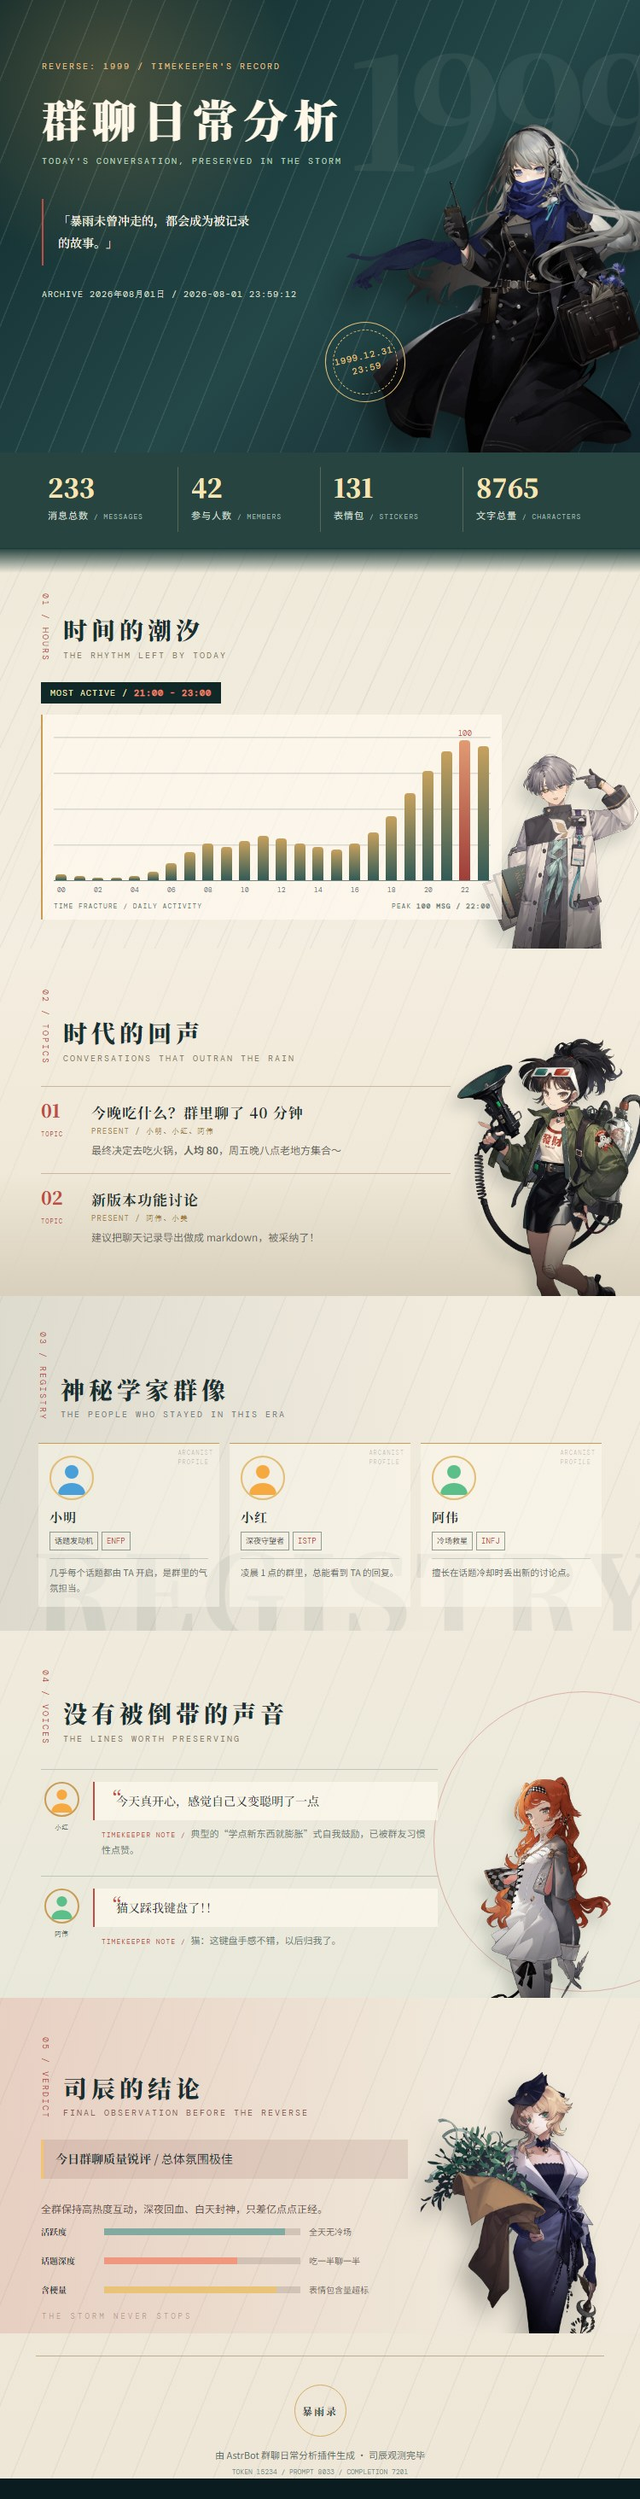
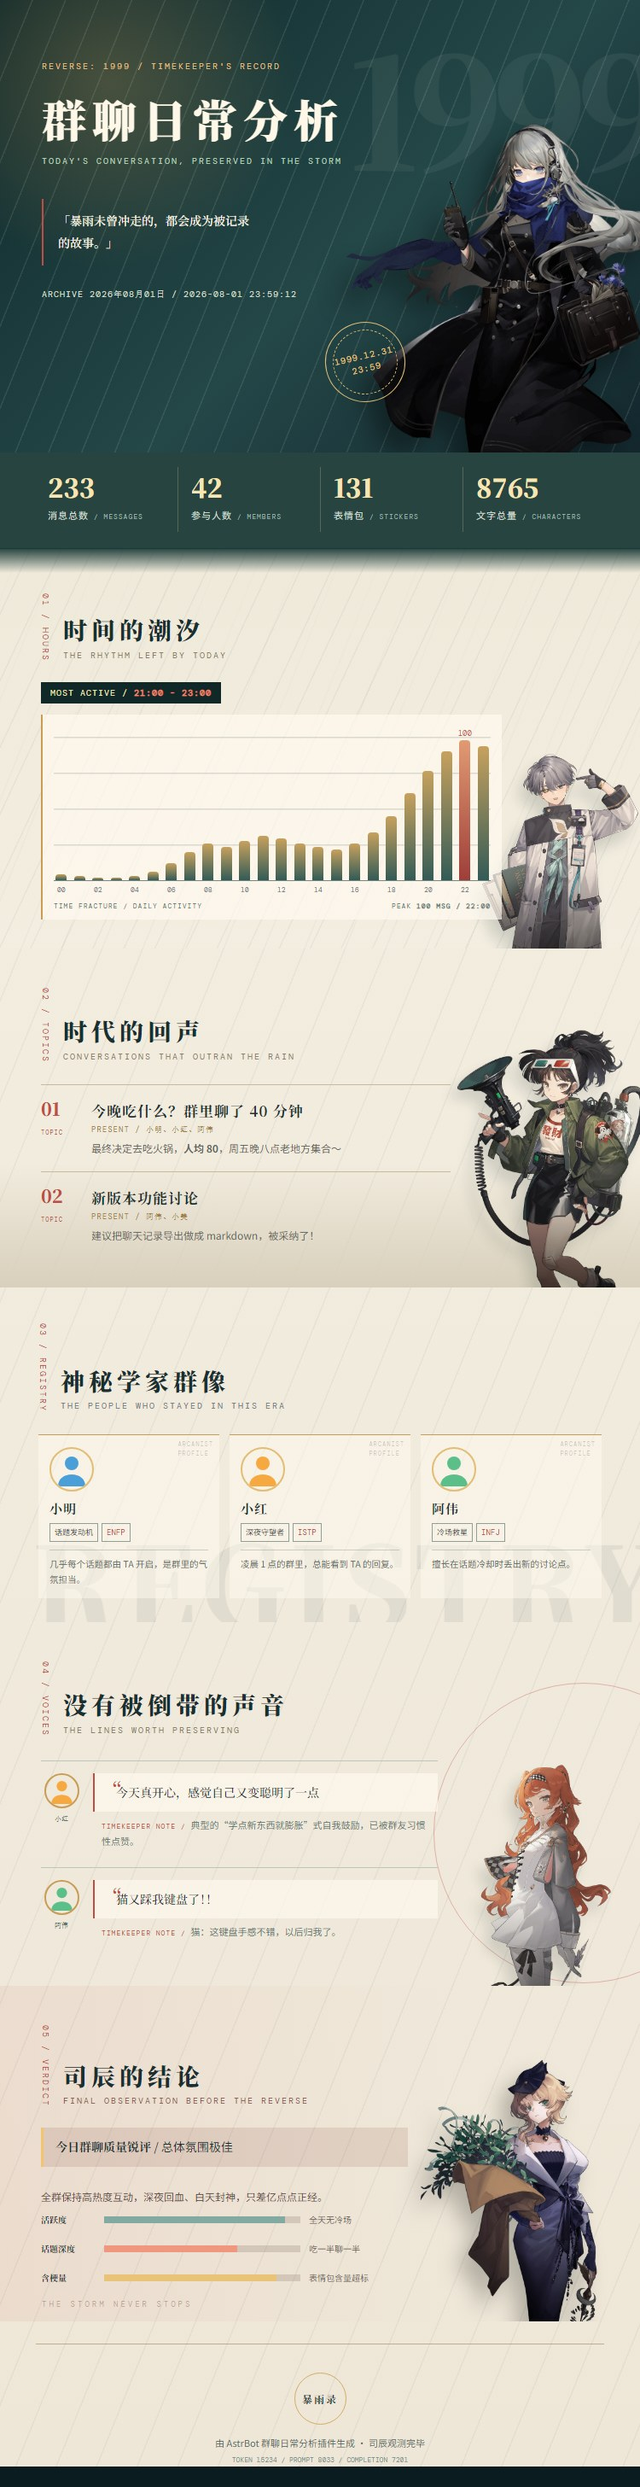
Refine continuous character layout

diff --git a/gda_reverse_1999/image_template.html b/gda_reverse_1999/image_template.html
@@ -1,4 +1,4 @@
 <!DOCTYPE html>
 <html lang="{{ 'zh-CN' if t2i_font_source == 'Mainland' else 'zh-Hant' }}"><head><meta charset="UTF-8"><meta name="viewport" content="width=device-width,initial-scale=1"><title>重返未来：1999 · 群聊观测</title><link rel="preconnect" href="{{ t2i_google_fonts_mirror }}"><link href="{{ t2i_google_fonts_mirror }}/css2?family=Noto+Serif+SC:wght@500;700;900&family=Noto+Serif+TC:wght@500;700;900&family=Noto+Sans+SC:wght@400;500;700&family=Noto+Sans+TC:wght@400;500;700&family=DM+Mono&display=swap" rel="stylesheet"><style>
-:root{--night:#102928;--deep:#0b1c20;--mist:#dce2d7;--paper:#f4efe2;--ivory:#fffaf0;--gold:#c99c55;--red:#bd4d45;--blue:#8ca9a3;--ink:#183031;--font-title:{% if t2i_font_source == 'Mainland' %}'Noto Serif SC','Noto Serif TC'{% else %}'Noto Serif TC','Noto Serif SC'{% endif %},serif;--font-body:{% if t2i_font_source == 'Mainland' %}'Noto Sans SC','Noto Sans TC'{% else %}'Noto Sans TC','Noto Sans SC'{% endif %},sans-serif;--mono:'DM Mono',monospace}*{box-sizing:border-box;margin:0;padding:0}html{background:var(--deep)}body{font-family:var(--font-body);color:var(--ink);font-size:15px;line-height:1.8;-webkit-print-color-adjust:exact;print-color-adjust:exact}.page{width:750px;margin:auto;overflow:hidden;background:#f4efe2;background-image:repeating-linear-gradient(112deg,transparent 0 42px,rgba(35,62,58,.055) 43px 44px),linear-gradient(180deg,#f5f0e4,#eee7d8)}.avoid-break{break-inside:avoid;page-break-inside:avoid}.hero{height:530px;position:relative;overflow:hidden;color:#fff8e8;background:linear-gradient(135deg,#102a2b 0%,#244748 55%,#13272d 100%)}.hero:before{content:"";position:absolute;inset:0;background:repeating-linear-gradient(112deg,transparent 0 34px,rgba(218,236,223,.11) 35px 36px),radial-gradient(circle at 17% 18%,rgba(201,156,85,.28),transparent 29%)}.hero:after{content:"1999";position:absolute;right:-24px;top:32px;font:900 180px/1 var(--font-title);letter-spacing:-12px;color:rgba(255,249,230,.06)}.hero-copy{position:absolute;z-index:3;left:49px;top:70px;width:398px}.eyebrow,.en,.chapter-index,.footer-code{font:10px/1.5 var(--mono);letter-spacing:2px}.eyebrow{color:#e2bf82}.hero h1{margin-top:21px;font:900 52px/1.25 var(--font-title);letter-spacing:7px}.hero .en{margin-top:10px;color:#bbcfbf}.hero-quote{margin-top:37px;width:255px;padding:13px 0 13px 17px;border-left:2px solid var(--red);font-family:var(--font-title);font-size:14px;line-height:1.85}.hero-date{margin-top:27px;color:#d6dccc;font:10px var(--mono);letter-spacing:1px}.hero-char{position:absolute;z-index:2;right:-34px;bottom:-26px;width:380px;filter:drop-shadow(-16px 17px 14px rgba(0,0,0,.37))}.hero-seal{position:absolute;z-index:4;right:275px;bottom:59px;width:94px;height:94px;border:1px solid #dfbd78;border-radius:50%;display:flex;align-items:center;justify-content:center;text-align:center;color:#efc980;font:10px/1.55 var(--mono);letter-spacing:1px;transform:rotate(-13deg)}.hero-seal:after{content:"";position:absolute;inset:8px;border:1px dashed #dfbd78;border-radius:50%}.metrics{display:grid;grid-template-columns:repeat(4,1fr);background:rgba(26,57,54,.94);color:#fff8e8;padding:17px 41px 20px;gap:0;position:relative}.metrics:after{content:"";position:absolute;left:0;right:0;bottom:-28px;height:29px;background:linear-gradient(180deg,rgba(26,57,54,.94),transparent);pointer-events:none;z-index:1}.metric{padding:5px 15px 8px;border-left:1px solid rgba(224,200,145,.27)}.metric:first-child{border:0}.metric b{display:block;font:900 30px/1.2 var(--font-title);color:#f8e5b5}.metric small{font-size:11px;color:#d3dfd2;letter-spacing:1px}.metric span{font:8px var(--mono);color:#9eb4aa;letter-spacing:1px}.scene{position:relative;overflow:hidden}.scene-title{display:flex;align-items:flex-end;gap:16px;position:relative;z-index:3}.chapter-index{color:var(--red);writing-mode:vertical-rl;line-height:1}.scene-title h2{font:900 28px/1.2 var(--font-title);letter-spacing:5px}.scene-title .en{margin-top:5px;color:#8b7761}.tide{padding:52px 48px 34px;background:linear-gradient(180deg,rgba(238,232,216,.78),rgba(244,239,226,.34))}.tide .chart-wrap{margin-bottom:0}.tide:before{content:"";position:absolute;inset:0;background:repeating-linear-gradient(115deg,transparent 0 31px,rgba(40,74,70,.06) 32px 33px)}.tide-char{position:absolute;right:-25px;bottom:-46px;width:250px;opacity:.88;filter:drop-shadow(-8px 13px 9px rgba(25,43,40,.2))}.tide .scene-title{width:420px}.peak-box{position:relative;z-index:3;display:inline-block;margin:24px 0 13px;padding:6px 11px;background:var(--night);color:#f2e0b7;font:10px var(--mono);letter-spacing:1px}.peak-box b{color:#f18770}.chart-wrap{position:relative;z-index:3;width:540px;padding:14px 13px 11px;background:rgba(255,250,239,.7);border-left:2px solid var(--gold)}.chart-col{padding-top:20px;background:repeating-linear-gradient(0deg,transparent 0 40px,rgba(31,55,51,.15) 41px 42px)}.chart-bars{height:160px;display:flex;gap:4px;align-items:flex-end}.chart-item{height:100%;flex:1;display:flex;align-items:flex-end;justify-content:center;position:relative}.chart-bar{width:75%;min-height:3px;background:linear-gradient(to top,#335b57,#c7a15e);border-radius:4px 4px 0 0}.chart-bar.peak{background:linear-gradient(to top,#9e3e39,#e19a73)}.chart-val{position:absolute;bottom:calc(100% + 6px);font:9px var(--mono);color:var(--red)}.chart-hr{border:0;border-top:1px solid #778780}.chart-labels{display:flex;gap:4px;padding-top:5px}.chart-labels span{flex:1;text-align:center;font:8px var(--mono);color:#708079}.chart-caption{display:flex;justify-content:space-between;margin-top:9px;font:8px var(--mono);letter-spacing:1px;color:#697870}.topic-scene{padding:48px 48px 42px;background:linear-gradient(180deg,rgba(247,240,225,.30),rgba(232,221,198,.42))}.topic-scene .topic-list{margin-bottom:0}.topic-scene:before{content:"";position:absolute;left:0;right:0;bottom:0;height:145px;background:linear-gradient(0deg,#d8d0bc,transparent)}.topic-scene .scene-title{margin-bottom:25px}.topic-list{position:relative;z-index:2;width:480px}.topic-item{display:flex;gap:17px;padding:17px 0;border-top:1px solid #c9b99c}.topic-no{width:42px;flex:none;color:var(--red)}.topic-no b{display:block;font:900 21px/1 var(--font-title)}.topic-no span{font:7px var(--mono);letter-spacing:1px}.topic-title{font:700 17px/1.5 var(--font-title);letter-spacing:1px}.topic-meta{margin-top:3px;color:#a47d42;font:9px var(--mono);letter-spacing:1px}.topic-detail{margin-top:5px;color:#5f6861;font-size:12px}.topic-char{position:absolute;right:-58px;bottom:-33px;width:300px;z-index:1;filter:drop-shadow(-9px 11px 8px rgba(25,43,40,.17))}.registry{padding:42px 45px 28px;background:linear-gradient(90deg,rgba(20,55,52,.09),rgba(244,239,226,.10) 72%);color:var(--ink)}.registry:before{content:"REGISTRY";position:absolute;left:37px;bottom:-44px;color:rgba(21,57,53,.025);font:900 130px var(--font-title);letter-spacing:6px}.registry .en{color:#bfae87}.title-grid{display:grid;grid-template-columns:repeat(3,1fr);gap:12px;position:relative;z-index:2;margin-top:26px}.title-card{position:relative;padding:14px 13px 13px;background:rgba(255,250,240,.48);border-top:1px solid #d4b272;overflow:hidden}.title-card:after{content:"ARCANIST\A PROFILE";white-space:pre;position:absolute;right:7px;top:6px;color:rgba(255,248,230,.35);font:7px/1.5 var(--mono);letter-spacing:1px}.t-avatar{width:52px;height:52px;border-radius:50%;overflow:hidden;border:2px solid #e2bd75}.t-avatar img{width:100%;height:100%;object-fit:cover}.t-name{margin-top:9px;font:700 15px var(--font-title);letter-spacing:1px}.t-badges{display:flex;gap:4px;flex-wrap:wrap;margin-top:7px}.t-title-tag,.t-mbti{padding:2px 5px;border:1px solid rgba(239,218,175,.54);font-size:9px}.t-mbti{font-family:var(--mono);color:#f3bdad}.t-reason{margin-top:9px;padding-top:7px;border-top:1px solid rgba(239,218,175,.23);font-size:10.5px;line-height:1.7;color:#d7ded0}.t-profile{position:absolute;right:-6px;bottom:-4px;width:58%;opacity:.08}.quote-stage{padding:46px 48px 38px;background:linear-gradient(180deg,rgba(238,235,222,.26),rgba(226,232,219,.50))}.quote-stage .quote-wrapper:last-child{margin-bottom:0}.quote-stage:after{content:"";position:absolute;right:-110px;top:71px;width:350px;height:350px;border:1px solid rgba(190,73,66,.35);border-radius:50%}.quote-stage .scene-title{margin-bottom:28px}.quote-wrapper{position:relative;z-index:2;width:465px;padding:14px 0;border-top:1px solid #bec6b9}.q-flex{display:flex;gap:13px}.q-side{flex:none;width:48px;text-align:center}.q-avatar{width:41px;height:41px;object-fit:cover;border-radius:50%;border:2px solid var(--gold)}.q-sender{font:8px var(--mono);color:#61716a;word-break:break-all}.q-main{flex:1}.q-bubble{padding:10px 13px 10px 25px;background:rgba(255,251,240,.65);border-left:2px solid var(--red);font:14px/1.75 var(--font-title);position:relative}.q-bubble:before{content:'“';position:absolute;left:9px;top:3px;font:23px var(--font-title);color:var(--red)}.q-note{padding:6px 10px;color:#68766f;font-size:11px}.note-label{font:8px var(--mono);color:var(--red);letter-spacing:1px}.quote-char{position:absolute;right:-20px;bottom:-47px;width:285px;z-index:1;filter:drop-shadow(-9px 13px 8px rgba(30,50,47,.19))}.assessment{padding:46px 48px 34px;background:linear-gradient(90deg,rgba(189,77,69,.16),rgba(244,239,226,.16) 75%);color:var(--ink)}.assessment:before{content:"THE STORM NEVER STOPS";position:absolute;left:49px;bottom:14px;font:9px var(--mono);letter-spacing:3px;color:rgba(255,239,207,.43)}.assessment .en{color:#ebc98b}.block-char{position:absolute;right:-17px;bottom:-27px;width:294px;filter:drop-shadow(-13px 15px 12px rgba(0,0,0,.25))}.quality-summary{position:relative;z-index:2;width:430px;margin-top:24px;font-size:12px;color:#ffeeda}.quality-summary.head{padding:10px 14px;border-left:3px solid #f2c470;background:rgba(30,20,22,.2);font-size:14px}.quality-summary b{font-family:var(--font-title)}.dim-row{position:relative;z-index:2;display:flex;align-items:center;gap:10px;width:418px;padding:8px 0;font-size:10px}.dim-name{width:64px;font-family:var(--font-title);font-weight:700}.dim-bar-box{flex:1;height:8px;background:rgba(255,245,220,.25)}.dim-bar{height:100%;background:#e9c378}.dim-bar.d2{background:#83aaa0}.dim-bar.d3{background:#f0987f}.dim-comment{width:104px;color:#f4d9c5}.footer{position:relative;height:170px;padding-top:60px;text-align:center;background:transparent;color:var(--ink)}.footer:before{content:"";position:absolute;left:42px;right:42px;top:26px;border-top:1px solid rgba(225,190,123,.39)}.seal{display:inline-flex;width:61px;height:61px;align-items:center;justify-content:center;border:1px solid #d4ab67;border-radius:50%;font:700 12px/1.35 var(--font-title);letter-spacing:2px;position:relative;z-index:1}.seal span{display:none}.footer-line{margin-top:12px;font-size:11px;color:#c3d1c2}.token-line{margin-top:4px;font:8px var(--mono);color:#89a39a}.footer-art,.footer-art2,.footer-orn,.deco-char,.blk-sticker,.sec-head,.sec-no,.sec-title,.sec-sub,.kpi-row,.kpi-card,.kpi-num,.kpi-unit,.kpi-label,.kpi-en{display:none}
+:root{--night:#102928;--deep:#0b1c20;--mist:#dce2d7;--paper:#f4efe2;--ivory:#fffaf0;--gold:#c99c55;--red:#bd4d45;--blue:#8ca9a3;--ink:#183031;--font-title:{% if t2i_font_source == 'Mainland' %}'Noto Serif SC','Noto Serif TC'{% else %}'Noto Serif TC','Noto Serif SC'{% endif %},serif;--font-body:{% if t2i_font_source == 'Mainland' %}'Noto Sans SC','Noto Sans TC'{% else %}'Noto Sans TC','Noto Sans SC'{% endif %},sans-serif;--mono:'DM Mono',monospace}*{box-sizing:border-box;margin:0;padding:0}html{background:var(--deep)}body{font-family:var(--font-body);color:var(--ink);font-size:15px;line-height:1.8;-webkit-print-color-adjust:exact;print-color-adjust:exact}.page{width:750px;margin:auto;overflow:hidden;background:#f4efe2;background-image:repeating-linear-gradient(112deg,transparent 0 42px,rgba(35,62,58,.055) 43px 44px),linear-gradient(180deg,#f5f0e4,#eee7d8)}.avoid-break{break-inside:avoid;page-break-inside:avoid}.hero{height:530px;position:relative;overflow:hidden;color:#fff8e8;background:linear-gradient(135deg,#102a2b 0%,#244748 55%,#13272d 100%)}.hero:before{content:"";position:absolute;inset:0;background:repeating-linear-gradient(112deg,transparent 0 34px,rgba(218,236,223,.11) 35px 36px),radial-gradient(circle at 17% 18%,rgba(201,156,85,.28),transparent 29%)}.hero:after{content:"1999";position:absolute;right:-24px;top:32px;font:900 180px/1 var(--font-title);letter-spacing:-12px;color:rgba(255,249,230,.06)}.hero-copy{position:absolute;z-index:3;left:49px;top:70px;width:398px}.eyebrow,.en,.chapter-index,.footer-code{font:10px/1.5 var(--mono);letter-spacing:2px}.eyebrow{color:#e2bf82}.hero h1{margin-top:21px;font:900 52px/1.25 var(--font-title);letter-spacing:7px}.hero .en{margin-top:10px;color:#bbcfbf}.hero-quote{margin-top:37px;width:255px;padding:13px 0 13px 17px;border-left:2px solid var(--red);font-family:var(--font-title);font-size:14px;line-height:1.85}.hero-date{margin-top:27px;color:#d6dccc;font:10px var(--mono);letter-spacing:1px}.hero-char{position:absolute;z-index:2;right:-34px;bottom:-26px;width:380px;filter:drop-shadow(-16px 17px 14px rgba(0,0,0,.37))}.hero-seal{position:absolute;z-index:4;right:275px;bottom:59px;width:94px;height:94px;border:1px solid #dfbd78;border-radius:50%;display:flex;align-items:center;justify-content:center;text-align:center;color:#efc980;font:10px/1.55 var(--mono);letter-spacing:1px;transform:rotate(-13deg)}.hero-seal:after{content:"";position:absolute;inset:8px;border:1px dashed #dfbd78;border-radius:50%}.metrics{display:grid;grid-template-columns:repeat(4,1fr);background:rgba(26,57,54,.94);color:#fff8e8;padding:17px 41px 20px;gap:0;position:relative}.metrics:after{content:"";position:absolute;left:0;right:0;bottom:-28px;height:29px;background:linear-gradient(180deg,rgba(26,57,54,.94),transparent);pointer-events:none;z-index:1}.metric{padding:5px 15px 8px;border-left:1px solid rgba(224,200,145,.27)}.metric:first-child{border:0}.metric b{display:block;font:900 30px/1.2 var(--font-title);color:#f8e5b5}.metric small{font-size:11px;color:#d3dfd2;letter-spacing:1px}.metric span{font:8px var(--mono);color:#9eb4aa;letter-spacing:1px}.scene{position:relative;overflow:hidden}.scene-title{display:flex;align-items:flex-end;gap:16px;position:relative;z-index:3}.chapter-index{color:var(--red);writing-mode:vertical-rl;line-height:1}.scene-title h2{font:900 28px/1.2 var(--font-title);letter-spacing:5px}.scene-title .en{margin-top:5px;color:#8b7761}.tide{padding:52px 48px 34px;background:linear-gradient(180deg,rgba(238,232,216,.78),rgba(244,239,226,.34))}.tide .chart-wrap{margin-bottom:0}.tide:before{content:"";position:absolute;inset:0;background:repeating-linear-gradient(115deg,transparent 0 31px,rgba(40,74,70,.06) 32px 33px)}.tide-char{position:absolute;right:-25px;bottom:-46px;width:250px;opacity:.88;filter:drop-shadow(-8px 13px 9px rgba(25,43,40,.2))}.tide .scene-title{width:420px}.peak-box{position:relative;z-index:3;display:inline-block;margin:24px 0 13px;padding:6px 11px;background:var(--night);color:#f2e0b7;font:10px var(--mono);letter-spacing:1px}.peak-box b{color:#f18770}.chart-wrap{position:relative;z-index:3;width:540px;padding:14px 13px 11px;background:rgba(255,250,239,.7);border-left:2px solid var(--gold)}.chart-col{padding-top:20px;background:repeating-linear-gradient(0deg,transparent 0 40px,rgba(31,55,51,.15) 41px 42px)}.chart-bars{height:160px;display:flex;gap:4px;align-items:flex-end}.chart-item{height:100%;flex:1;display:flex;align-items:flex-end;justify-content:center;position:relative}.chart-bar{width:75%;min-height:3px;background:linear-gradient(to top,#335b57,#c7a15e);border-radius:4px 4px 0 0}.chart-bar.peak{background:linear-gradient(to top,#9e3e39,#e19a73)}.chart-val{position:absolute;bottom:calc(100% + 6px);font:9px var(--mono);color:var(--red)}.chart-hr{border:0;border-top:1px solid #778780}.chart-labels{display:flex;gap:4px;padding-top:5px}.chart-labels span{flex:1;text-align:center;font:8px var(--mono);color:#708079}.chart-caption{display:flex;justify-content:space-between;margin-top:9px;font:8px var(--mono);letter-spacing:1px;color:#697870}.topic-scene{padding:46px 48px 34px;background:transparent}.topic-scene .topic-list{margin-bottom:0}.topic-char{right:2px;bottom:18px;width:252px;opacity:.94}.topic-scene:before{content:"";position:absolute;left:0;right:0;bottom:0;height:145px;background:linear-gradient(0deg,#d8d0bc,transparent)}.topic-scene .scene-title{margin-bottom:25px}.topic-list{position:relative;z-index:2;width:480px}.topic-item{display:flex;gap:17px;padding:17px 0;border-top:1px solid #c9b99c}.topic-no{width:42px;flex:none;color:var(--red)}.topic-no b{display:block;font:900 21px/1 var(--font-title)}.topic-no span{font:7px var(--mono);letter-spacing:1px}.topic-title{font:700 17px/1.5 var(--font-title);letter-spacing:1px}.topic-meta{margin-top:3px;color:#a47d42;font:9px var(--mono);letter-spacing:1px}.topic-detail{margin-top:5px;color:#5f6861;font-size:12px}.topic-char{position:absolute;right:-58px;bottom:-33px;width:300px;z-index:1;filter:drop-shadow(-9px 11px 8px rgba(25,43,40,.17))}.registry{padding:42px 45px 28px;background:transparent;color:var(--ink)}.registry:before{content:"REGISTRY";position:absolute;left:37px;bottom:-44px;color:rgba(21,57,53,.025);font:900 130px var(--font-title);letter-spacing:6px}.registry .en{color:#bfae87}.title-grid{display:grid;grid-template-columns:repeat(3,1fr);gap:12px;position:relative;z-index:2;margin-top:26px}.title-card{position:relative;padding:14px 13px 13px;background:rgba(255,250,240,.48);border-top:1px solid #d4b272;overflow:hidden}.title-card:after{content:"ARCANIST\A PROFILE";white-space:pre;position:absolute;right:7px;top:6px;color:rgba(255,248,230,.35);font:7px/1.5 var(--mono);letter-spacing:1px}.t-avatar{width:52px;height:52px;border-radius:50%;overflow:hidden;border:2px solid #e2bd75}.t-avatar img{width:100%;height:100%;object-fit:cover}.t-name{margin-top:9px;font:700 15px var(--font-title);letter-spacing:1px}.t-badges{display:flex;gap:4px;flex-wrap:wrap;margin-top:7px}.t-title-tag,.t-mbti{padding:2px 5px;border:1px solid rgba(239,218,175,.54);font-size:9px}.t-mbti{font-family:var(--mono);color:#f3bdad}.t-reason{margin-top:9px;padding-top:7px;border-top:1px solid rgba(239,218,175,.23);font-size:10.5px;line-height:1.7;color:#d7ded0}.t-profile{position:absolute;right:-6px;bottom:-4px;width:58%;opacity:.08}.quote-stage{padding:46px 48px 34px;background:transparent}.quote-stage .quote-wrapper:last-child{margin-bottom:0}.quote-char{right:8px;bottom:18px;width:245px;opacity:.84}.quote-stage:after{content:"";position:absolute;right:-110px;top:71px;width:350px;height:350px;border:1px solid rgba(190,73,66,.35);border-radius:50%}.quote-stage .scene-title{margin-bottom:28px}.quote-wrapper{position:relative;z-index:2;width:465px;padding:14px 0;border-top:1px solid #bec6b9}.q-flex{display:flex;gap:13px}.q-side{flex:none;width:48px;text-align:center}.q-avatar{width:41px;height:41px;object-fit:cover;border-radius:50%;border:2px solid var(--gold)}.q-sender{font:8px var(--mono);color:#61716a;word-break:break-all}.q-main{flex:1}.q-bubble{padding:10px 13px 10px 25px;background:rgba(255,251,240,.65);border-left:2px solid var(--red);font:14px/1.75 var(--font-title);position:relative}.q-bubble:before{content:'“';position:absolute;left:9px;top:3px;font:23px var(--font-title);color:var(--red)}.q-note{padding:6px 10px;color:#68766f;font-size:11px}.note-label{font:8px var(--mono);color:var(--red);letter-spacing:1px}.quote-char{position:absolute;right:-20px;bottom:-47px;width:285px;z-index:1;filter:drop-shadow(-9px 13px 8px rgba(30,50,47,.19))}.assessment{padding:46px 48px 34px;background:linear-gradient(90deg,rgba(189,77,69,.08),transparent 72%);color:var(--ink)}.assessment:before{content:"THE STORM NEVER STOPS";position:absolute;left:49px;bottom:14px;font:9px var(--mono);letter-spacing:3px;color:rgba(255,239,207,.43)}.assessment .en{color:#ebc98b}.block-char{position:absolute;right:-17px;bottom:-27px;width:294px;filter:drop-shadow(-13px 15px 12px rgba(0,0,0,.25))}.quality-summary{position:relative;z-index:2;width:430px;margin-top:24px;font-size:12px;color:#ffeeda}.quality-summary.head{padding:10px 14px;border-left:3px solid #f2c470;background:rgba(30,20,22,.2);font-size:14px}.quality-summary b{font-family:var(--font-title)}.dim-row{position:relative;z-index:2;display:flex;align-items:center;gap:10px;width:418px;padding:8px 0;font-size:10px}.dim-name{width:64px;font-family:var(--font-title);font-weight:700}.dim-bar-box{flex:1;height:8px;background:rgba(255,245,220,.25)}.dim-bar{height:100%;background:#e9c378}.dim-bar.d2{background:#83aaa0}.dim-bar.d3{background:#f0987f}.dim-comment{width:104px;color:#f4d9c5}.footer{position:relative;height:170px;padding-top:60px;text-align:center;background:transparent;color:var(--ink)}.footer:before{content:"";position:absolute;left:42px;right:42px;top:26px;border-top:1px solid rgba(225,190,123,.39)}.seal{display:inline-flex;width:61px;height:61px;align-items:center;justify-content:center;border:1px solid #d4ab67;border-radius:50%;font:700 12px/1.35 var(--font-title);letter-spacing:2px;position:relative;z-index:1}.seal span{display:none}.footer-line{margin-top:12px;font-size:11px;color:#c3d1c2}.token-line{margin-top:4px;font:8px var(--mono);color:#89a39a}.footer-art,.footer-art2,.footer-orn,.deco-char,.blk-sticker,.sec-head,.sec-no,.sec-title,.sec-sub,.kpi-row,.kpi-card,.kpi-num,.kpi-unit,.kpi-label,.kpi-en{display:none}
 .registry:before{color:rgba(21,57,53,.075)}.registry .en{color:#71817a}.registry .chapter-index{color:var(--red)}.registry .title-card{background:rgba(255,250,240,.48);border-top-color:var(--gold)}.registry .title-card:after{color:rgba(28,65,61,.28)}.registry .t-name{color:var(--ink)}.registry .t-title-tag,.registry .t-mbti{border-color:rgba(44,75,69,.5);color:var(--ink)}.registry .t-mbti{color:var(--red)}.registry .t-reason{border-top-color:rgba(44,75,69,.22);color:#5b6e67}.assessment:before{color:rgba(133,59,52,.45)}.assessment .en{color:#8e554c}.assessment .quality-summary{color:#5d4a45}.assessment .quality-summary.head{background:rgba(116,49,43,.12);color:var(--ink)}.assessment .dim-comment{color:#745d56}.assessment .dim-bar-box{background:rgba(93,74,67,.18)}.footer:before{border-color:rgba(153,113,65,.5)}.footer-line{color:#566d66}.token-line{color:#82928c}</style></head><body><div class="page"><section class="hero"><div class="hero-copy"><div class="eyebrow">REVERSE: 1999 / TIMEKEEPER'S RECORD</div><h1>群聊日常分析</h1><div class="en">TODAY'S CONVERSATION, PRESERVED IN THE STORM</div><div class="hero-quote">「暴雨未曾冲走的，都会成为被记录的故事。」</div><div class="hero-date">ARCHIVE {{ current_date }} / {{ current_datetime }}</div></div><div class="hero-seal">1999.12.31<br>23:59</div><img class="hero-char" src="https://re.bluepoch.com/home/img/role/2.png" alt="维尔汀"></section><section class="metrics"><div class="metric"><b>{{ message_count }}</b><small>消息总数</small><span> / MESSAGES</span></div><div class="metric"><b>{{ participant_count }}</b><small>参与人数</small><span> / MEMBERS</span></div><div class="metric"><b>{{ emoji_count }}</b><small>表情包</small><span> / STICKERS</span></div><div class="metric"><b>{{ total_characters }}</b><small>文字总量</small><span> / CHARACTERS</span></div></section><section class="scene tide"><img class="tide-char" src="https://re.bluepoch.com/home/img/role/1.png" alt="角色"><div class="scene-title"><div class="chapter-index">01 / HOURS</div><div><h2>时间的潮汐</h2><div class="en">THE RHYTHM LEFT BY TODAY</div></div></div><div class="peak-box">MOST ACTIVE / <b>{{ most_active_period }}</b></div>{{ hourly_chart_html | safe }}</section><section class="scene topic-scene"><img class="topic-char" src="https://re.bluepoch.com/home/img/role/4.png" alt="角色">{{ topics_html | safe }}</section><section class="scene registry">{{ titles_html | safe }}</section><section class="scene quote-stage"><img class="quote-char" src="https://re.bluepoch.com/home/img/role/5.png" alt="角色">{{ quotes_html | safe }}</section>{% if chat_quality_html %}<section class="scene assessment">{{ chat_quality_html | safe }}</section>{% endif %}<footer class="footer"><div class="seal">暴雨录<span>STORM</span></div><div class="footer-line">由 AstrBot 群聊日常分析插件生成 · 司辰观测完毕</div><div class="token-line">TOKEN {{ total_tokens }} / PROMPT {{ prompt_tokens }} / COMPLETION {{ completion_tokens }}</div></footer></div></body></html>
